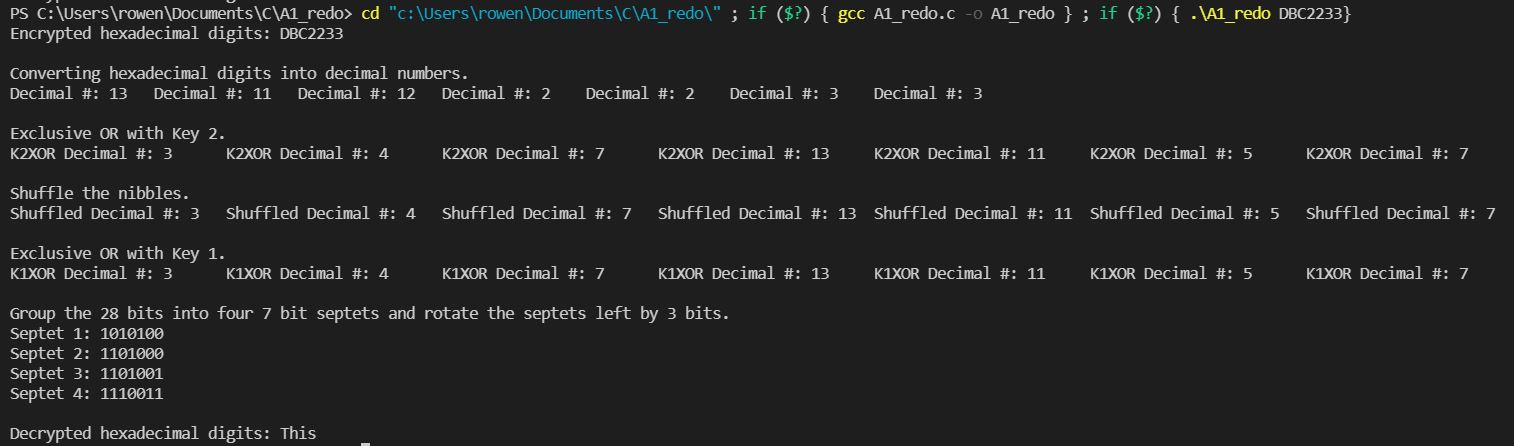
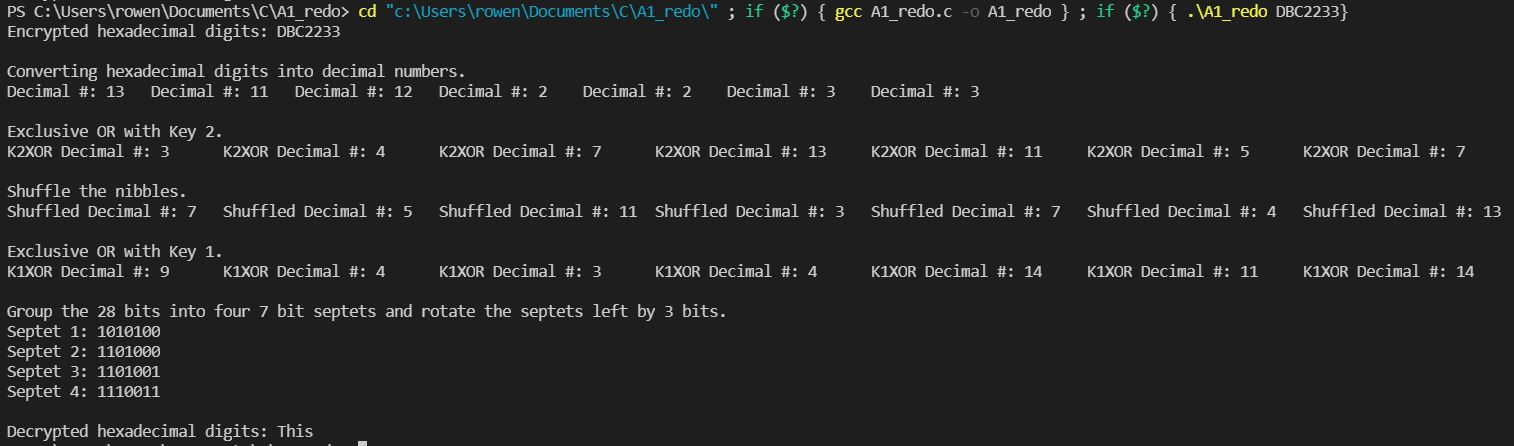
A1_redo Results

diff --git a/A1_redo/A1_redo.c b/A1_redo/A1_redo.c
@@ -69,7 +69,7 @@ int main (int argc, char *argv[]) {
     printf("\n\n");
     puts("Shuffle the nibbles.");
     for(int i = 0; i < SIZE; i++) {
-        printf("Shuffled Decimal #: %d\t", dec[i]);
+        printf("Shuffled Decimal #: %d\t", shuffle[i]);
     }
 
     key1XOR(shuffle, key1, SIZE);
@@ -77,7 +77,7 @@ int main (int argc, char *argv[]) {
     printf("\n\n");
     puts("Exclusive OR with Key 1.");
     for(int i = 0; i < SIZE; i++) {
-        printf("K1XOR Decimal #: %d\t", dec[i]);
+        printf("K1XOR Decimal #: %d\t", shuffle[i]);
     }
 
     // Four 7-bit septets storage
